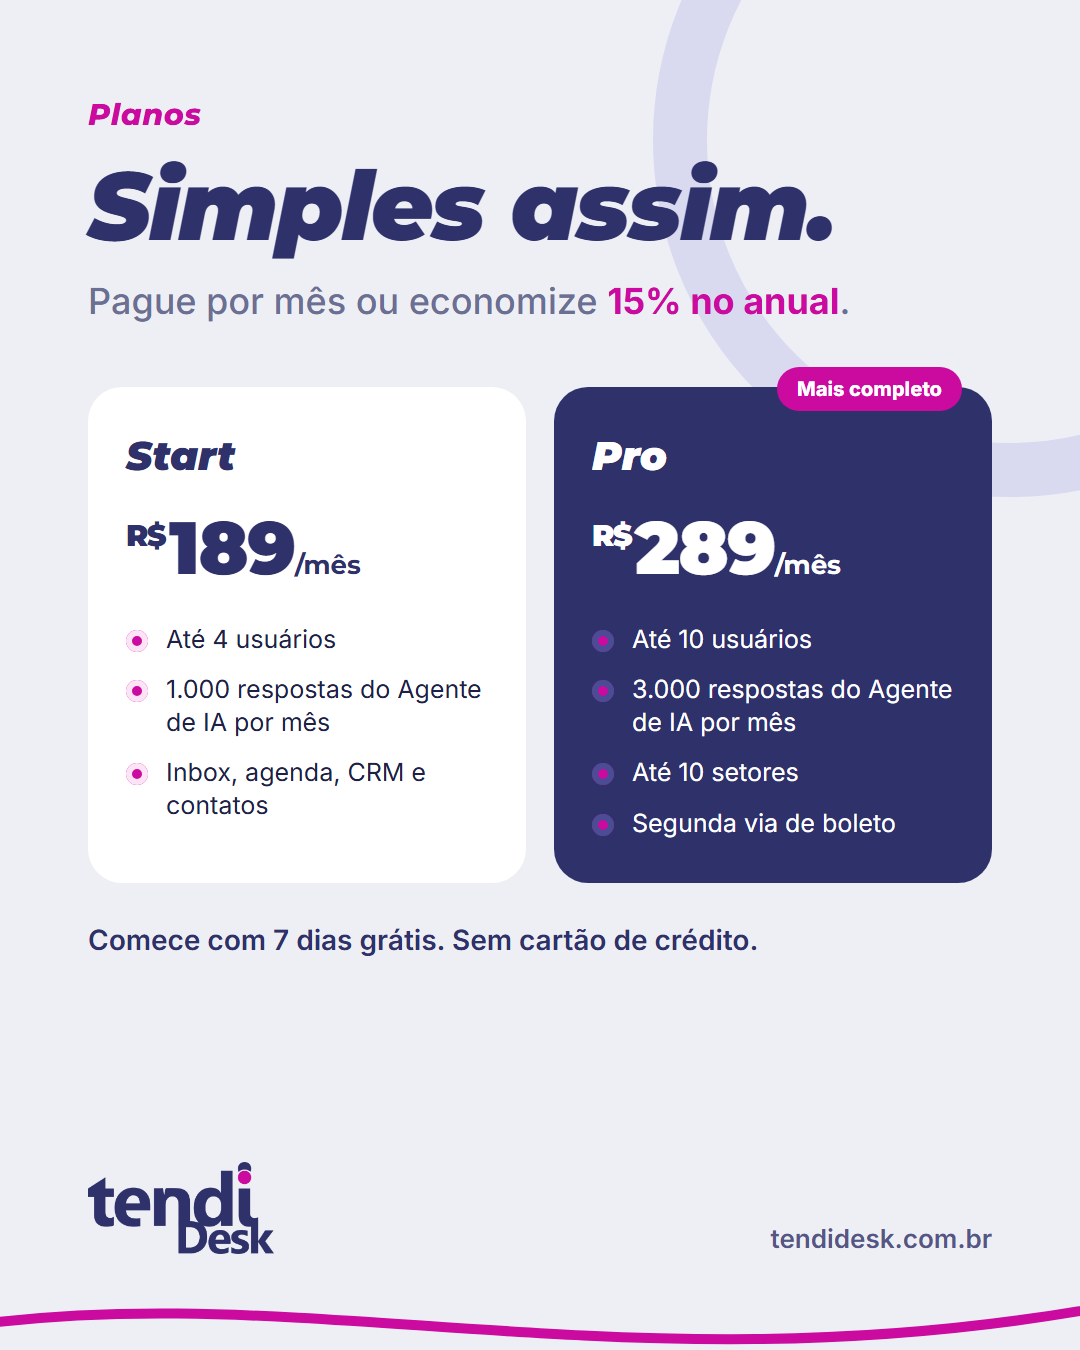
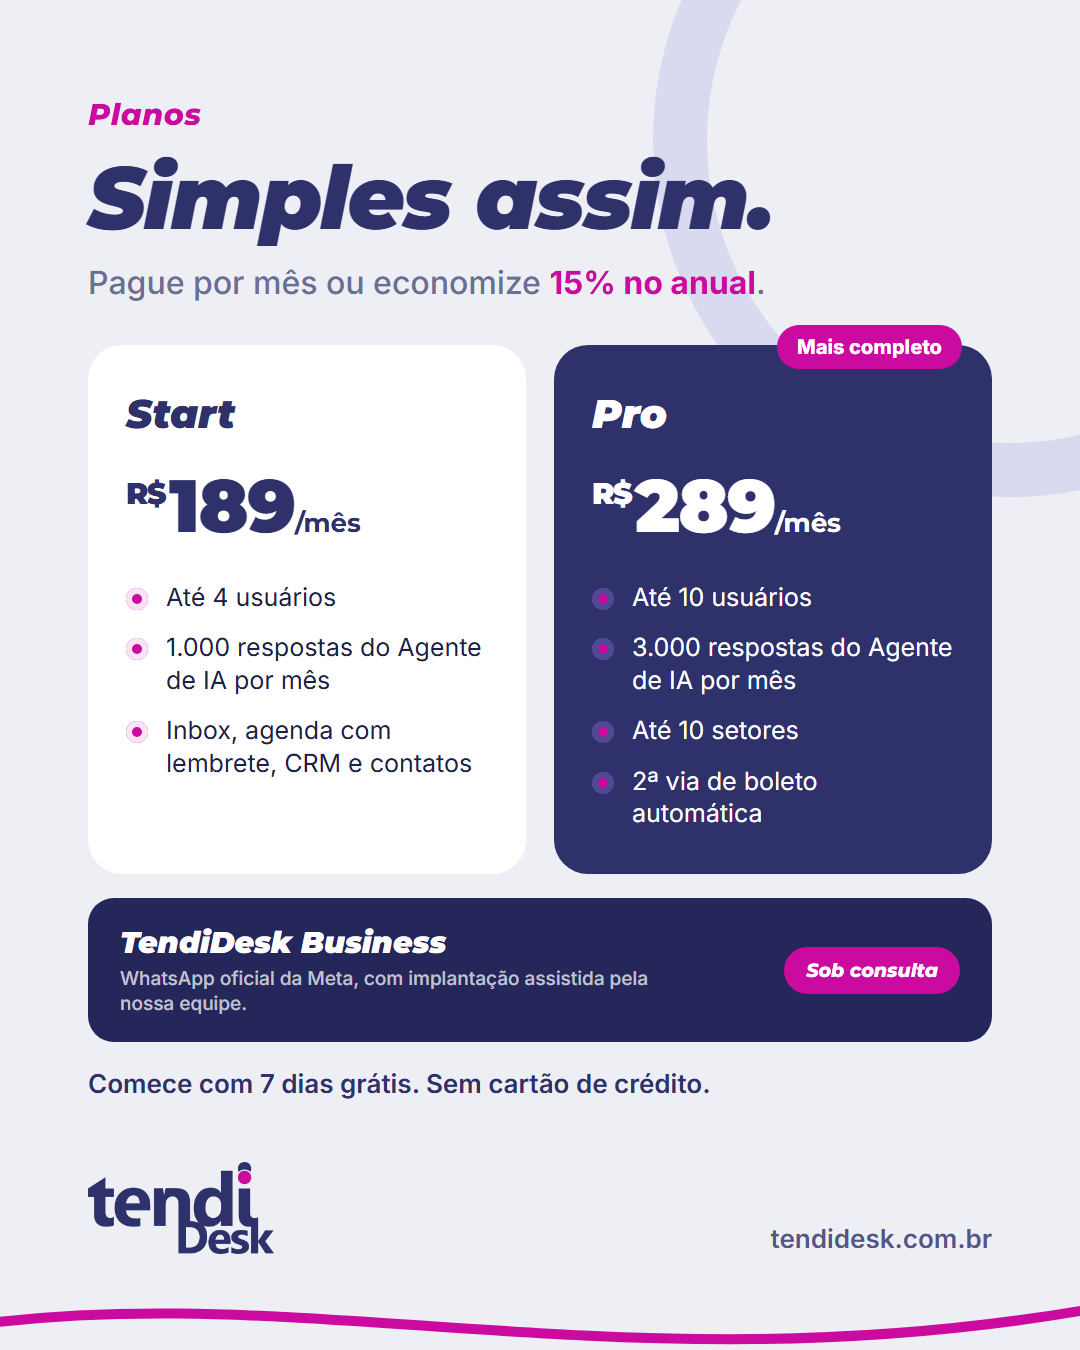
feat(marketing): adiciona TendiDesk Business na arte de planos do Instagram
Atualiza bullets do Start/Pro (agenda com lembrete, 2a via de boleto
automatica) e inclui banner do plano Business (WhatsApp oficial da
Meta, sob consulta) na arte "08-planos" e na legenda correspondente.

Changed region(s): [[0.0611, 0.0933, 0.9167, 0.8089], [0.0917, 0.28, 0.4583, 0.6222]]

diff --git a/marketing/instagram/fonte/gerar.js b/marketing/instagram/fonte/gerar.js
@@ -141,13 +141,17 @@ const posts = [
 
   { file: '08-planos', cls: 'light', body: `${curves('arc', '#D9DAF0')}
     <p class="kicker">Planos</p>
-    <h1 style="margin-top:24px;font-size:96px">Simples assim.</h1>
-    <p class="lead" style="margin-top:22px">Pague por mês ou economize <b style="color:#CB0A9F">15% no anual</b>.</p>
-    <div class="plans" style="margin-top:60px">
-      <div class="plan"><div class="name">Start</div><div class="price"><sup>R$</sup>189<small>/mês</small></div><ul><li>Até 4 usuários</li><li>1.000 respostas do Agente de IA por mês</li><li>Inbox, agenda, CRM e contatos</li></ul></div>
-      <div class="plan pro"><span class="flag">Mais completo</span><div class="name">Pro</div><div class="price"><sup>R$</sup>289<small>/mês</small></div><ul><li>Até 10 usuários</li><li>3.000 respostas do Agente de IA por mês</li><li>Até 10 setores</li><li>Segunda via de boleto</li></ul></div>
+    <h1 style="margin-top:20px;font-size:88px">Simples assim.</h1>
+    <p class="lead" style="margin-top:18px;font-size:32px">Pague por mês ou economize <b style="color:#CB0A9F">15% no anual</b>.</p>
+    <div class="plans" style="margin-top:40px">
+      <div class="plan"><div class="name">Start</div><div class="price"><sup>R$</sup>189<small>/mês</small></div><ul><li>Até 4 usuários</li><li>1.000 respostas do Agente de IA por mês</li><li>Inbox, agenda com lembrete, CRM e contatos</li></ul></div>
+      <div class="plan pro"><span class="flag">Mais completo</span><div class="name">Pro</div><div class="price"><sup>R$</sup>289<small>/mês</small></div><ul><li>Até 10 usuários</li><li>3.000 respostas do Agente de IA por mês</li><li>Até 10 setores</li><li>2ª via de boleto automática</li></ul></div>
     </div>
-    <p style="margin-top:40px;font-size:28px;font-weight:600;color:#2F316B">Comece com 7 dias grátis. Sem cartão de crédito.</p>
+    <div class="plan-business">
+      <div><p class="biz-name">TendiDesk Business</p><p class="biz-desc">WhatsApp oficial da Meta, com implantação assistida pela nossa equipe.</p></div>
+      <span class="biz-tag">Sob consulta</span>
+    </div>
+    <p style="margin-top:26px;font-size:26px;font-weight:600;color:#2F316B">Comece com 7 dias grátis. Sem cartão de crédito.</p>
     ${footer(false)}` },
 
   { file: '09-teste-gratis', cls: 'deep', body: `${curves('bubble', '#3E4190', '#CB0A9F')}

diff --git a/marketing/instagram/fonte/estilo.css b/marketing/instagram/fonte/estilo.css
@@ -116,6 +116,11 @@ h1 .ring { border: 6px solid var(--magenta); border-radius: 999px; padding: 0 22
 .plan.pro li::before { box-shadow: inset 0 0 0 6px #4A4D93; }
 .plan .flag { position: absolute; top: -20px; right: 30px; background: var(--magenta); color: #fff; font-weight: 800; font-size: 20px; padding: 10px 20px; border-radius: 999px; }
 
+.plan-business { margin-top: 24px; display: flex; align-items: center; justify-content: space-between; gap: 24px; border-radius: 26px; padding: 26px 32px; background: var(--navy-dark); color: #fff; }
+.plan-business .biz-name { font-family: 'Montserrat'; font-style: italic; font-weight: 900; font-size: 30px; }
+.plan-business .biz-desc { margin-top: 6px; font-size: 19px; font-weight: 500; line-height: 1.3; color: rgba(255,255,255,.72); max-width: 540px; }
+.plan-business .biz-tag { flex-shrink: 0; background: var(--magenta); font-family: 'Montserrat'; font-style: italic; font-weight: 800; font-size: 19px; padding: 12px 22px; border-radius: 999px; }
+
 .steps-dots { display: flex; gap: 12px; }
 .steps-dots i { width: 16px; height: 16px; border-radius: 50%; background: currentColor; opacity: .25; }
 .steps-dots i.on { width: 46px; border-radius: 999px; opacity: 1; background: var(--magenta); }

diff --git a/marketing/instagram/legendas.md b/marketing/instagram/legendas.md
@@ -122,7 +122,8 @@ No TendiDesk o nome de quem atende aparece na mensagem que chega no WhatsApp do 
 Simples assim.
 
 Start: R$ 189/mês. Até 4 usuários e 1.000 respostas do Agente de IA por mês.
-Pro: R$ 289/mês. Até 10 usuários, 3.000 respostas do Agente de IA por mês e até 10 setores.
+Pro: R$ 289/mês. Até 10 usuários, 3.000 respostas do Agente de IA por mês, até 10 setores e 2ª via de boleto automática.
+Business: sob consulta. WhatsApp oficial da Meta, com implantação assistida.
 
 No plano anual você economiza 15%. Comece com 7 dias grátis, sem cartão de crédito. Link na bio.
 
